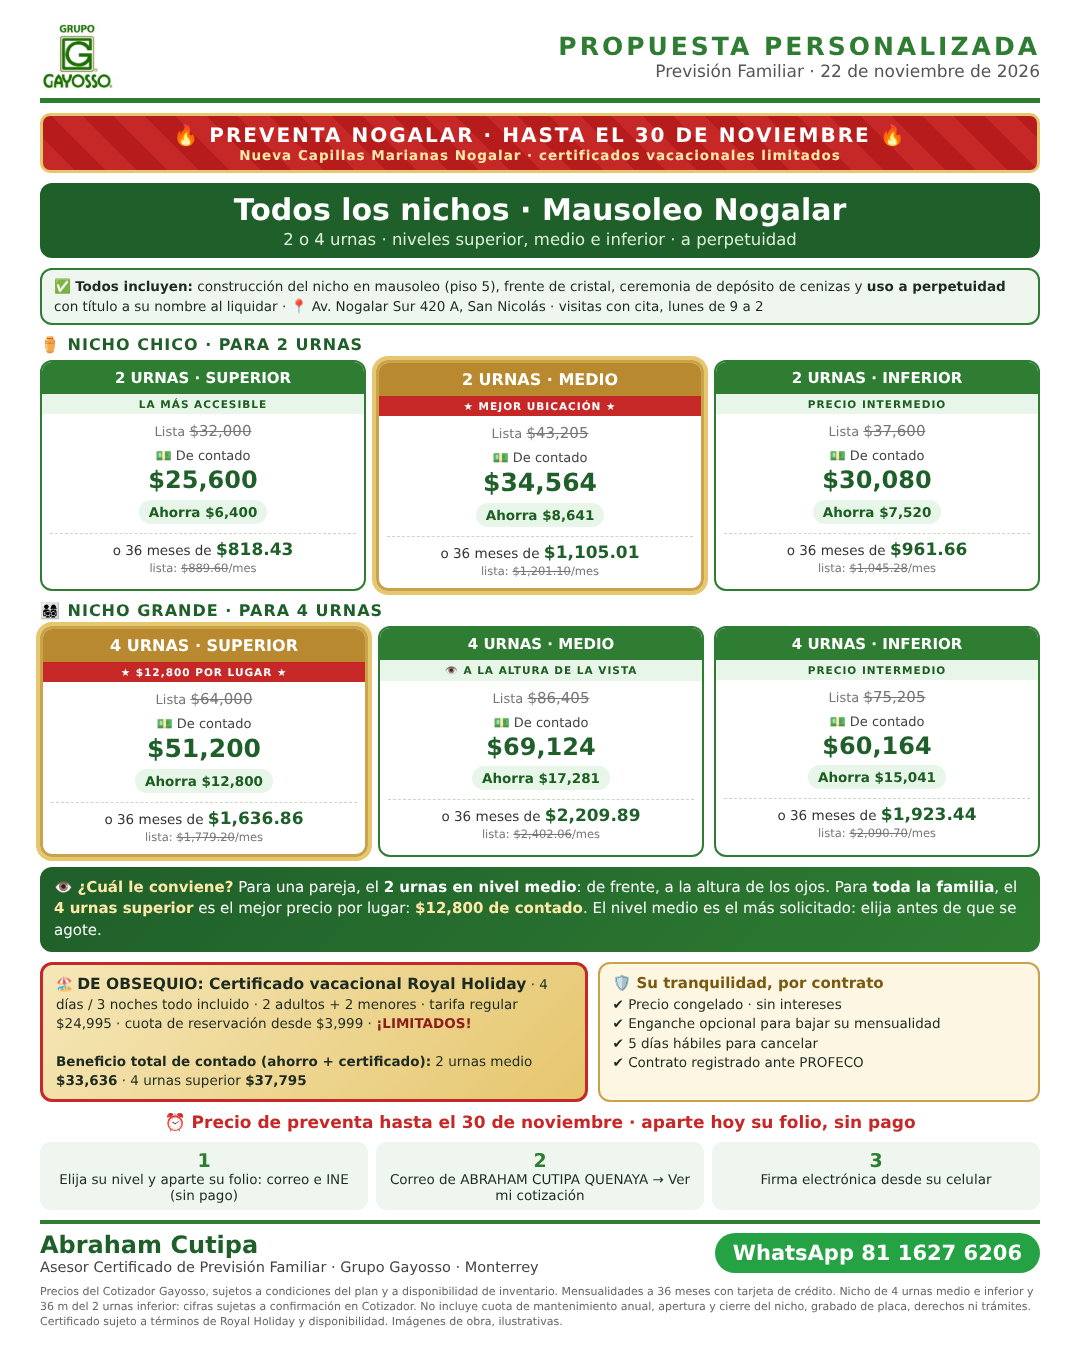
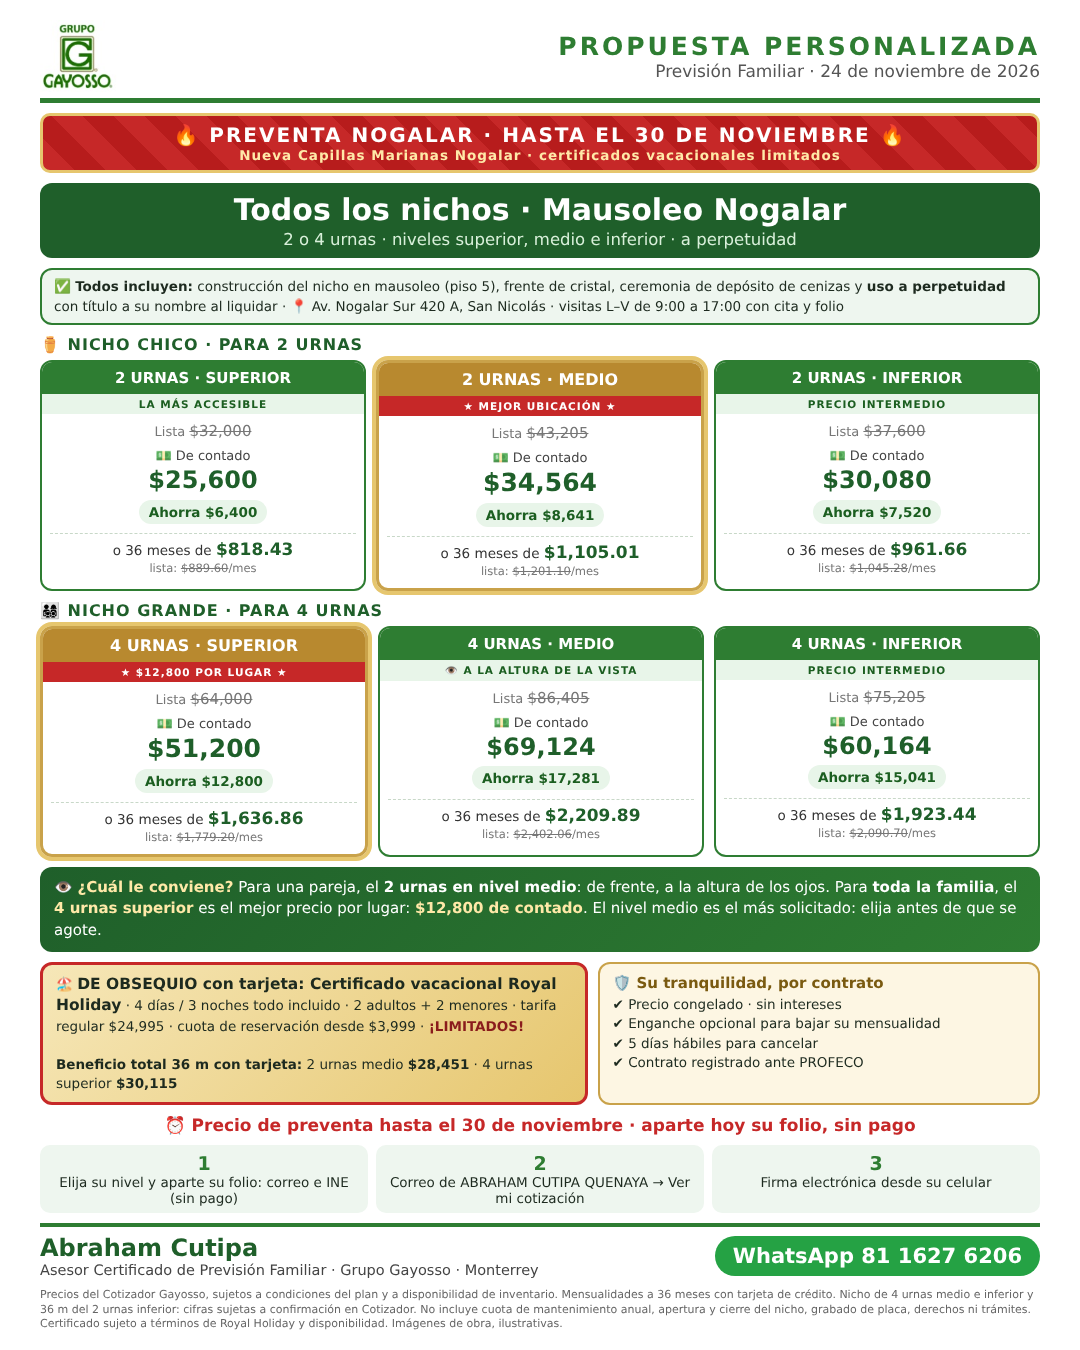
Nichos Nogalar 2 y 4 urnas: horario de visitas y certificado solo con tarjeta
Claude-Session: https://claude.ai/code/session_01PccRGVGwaaPKDitcWkgoNs

Changed region(s): [[0.0306, 0.7156, 0.9778, 0.9956], [0.5806, 0.2178, 0.7028, 0.2489]]

diff --git a/propuesta/nichos_nogalar_todos_niveles.html b/propuesta/nichos_nogalar_todos_niveles.html
@@ -29,7 +29,7 @@
 <div class="top"><img src="logo.jpg"><div><div class="k">PROPUESTA PERSONALIZADA</div><div class="d">Previsión Familiar · 11 de noviembre de 2026</div></div></div>
 <div class="rib">🔥 PREVENTA NOGALAR · HASTA EL 30 DE NOVIEMBRE 🔥<small>Nueva Capillas Marianas Nogalar · certificados vacacionales limitados</small></div>
 <div class="band"><div class="t">Todos los nichos · Mausoleo Nogalar</div><div class="s">2 o 4 urnas · niveles superior, medio e inferior · a perpetuidad</div></div>
-<div class="inc" style="flex:none;font-size:13.5px;line-height:1.45;padding:7px 12px">✅ <b>Todos incluyen:</b> construcción del nicho en mausoleo (piso 5), frente de cristal, ceremonia de depósito de cenizas y <b>uso a perpetuidad</b> con título a su nombre al liquidar · 📍 Av. Nogalar Sur 420 A, San Nicolás · visitas con cita, lunes de 9 a 2</div>
+<div class="inc" style="flex:none;font-size:13.5px;line-height:1.45;padding:7px 12px">✅ <b>Todos incluyen:</b> construcción del nicho en mausoleo (piso 5), frente de cristal, ceremonia de depósito de cenizas y <b>uso a perpetuidad</b> con título a su nombre al liquidar · 📍 Av. Nogalar Sur 420 A, San Nicolás · visitas L–V de 9:00 a 17:00 con cita y folio</div>
 <div class="sec">⚱ NICHO CHICO · PARA 2 URNAS</div>
 <div class="cards"><div class="c"><div class="h">2 URNAS · SUPERIOR</div><div class="tag">LA MÁS ACCESIBLE</div><div class="b">
   <div class="l">Lista <s>$32,000</s></div>
@@ -60,7 +60,7 @@
 </div>
 <div class="why">👁 <b class="y">¿Cuál le conviene?</b> Para una pareja, el <b>2 urnas en nivel medio</b>: de frente, a la altura de los ojos. Para <b>toda la familia</b>, el <b class="y">4 urnas superior</b> es el mejor precio por lugar: <b class="y">$12,800 de contado</b>. El nivel medio es el más solicitado: elija antes de que se agote.</div>
 <div class="row">
- <div class="gift">🏖 <b class="t">DE OBSEQUIO: Certificado vacacional Royal Holiday</b> · 4 días / 3 noches todo incluido · 2 adultos + 2 menores · tarifa regular $24,995 · cuota de reservación desde $3,999 · <b style="color:#8a1c1c">¡LIMITADOS!</b><br><br><b>Beneficio total de contado (ahorro + certificado):</b> 2 urnas medio <b>$33,636</b> · 4 urnas superior <b>$37,795</b></div>
+ <div class="gift">🏖 <b class="t">DE OBSEQUIO con tarjeta: Certificado vacacional Royal Holiday</b> · 4 días / 3 noches todo incluido · 2 adultos + 2 menores · tarifa regular $24,995 · cuota de reservación desde $3,999 · <b style="color:#8a1c1c">¡LIMITADOS!</b><br><br><b>Beneficio total 36 m con tarjeta:</b> 2 urnas medio <b>$28,451</b> · 4 urnas superior <b>$30,115</b></div>
  <div class="tr"><b style="color:#7a5a10;font-size:15px">🛡 Su tranquilidad, por contrato</b><br>✔ Precio congelado · sin intereses<br>✔ Enganche opcional para bajar su mensualidad<br>✔ 5 días hábiles para cancelar<br>✔ Contrato registrado ante PROFECO</div>
 </div>
 <div class="vig">⏰ Precio de preventa hasta el 30 de noviembre · aparte hoy su folio, sin pago</div>
